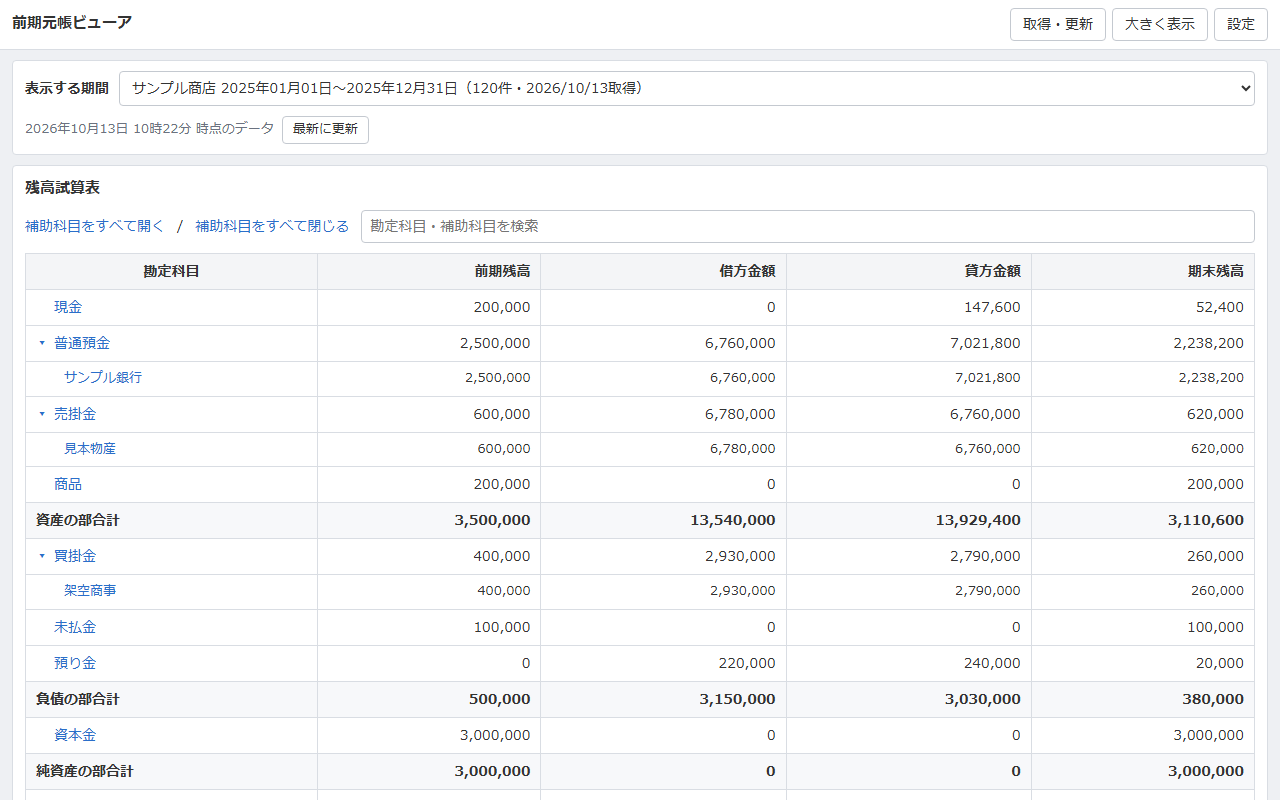
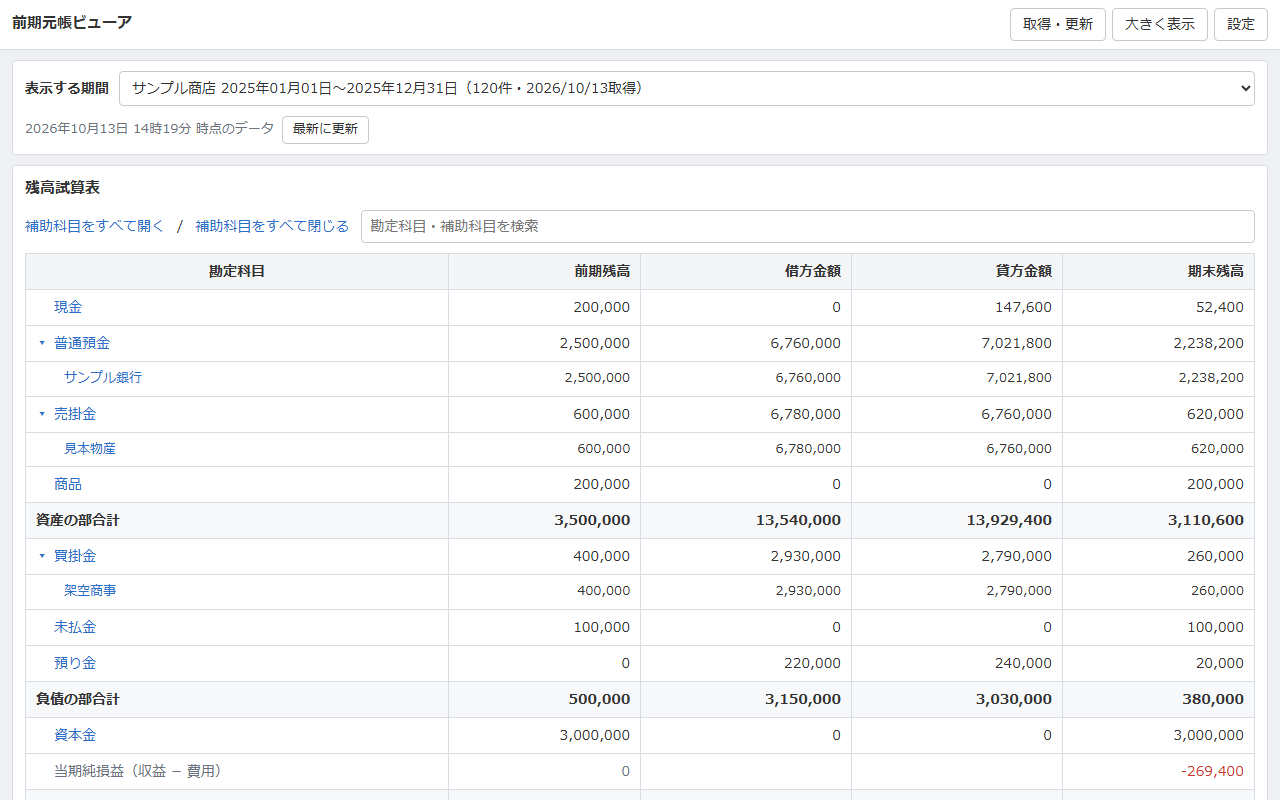
手順書・プライバシーポリシーに、残高試算表CSVの読み込みを追加

diff --git a/index.html b/index.html
@@ -64,7 +64,7 @@
 <li>明細を押して、その仕訳の全行（複合仕訳を含む）を確認する</li>
 <li>税区分・税額・インボイス区分（適格・非適格）・部門・取引先・メモ・タグも、元帳と仕訳の詳細に表示する</li>
 <li>経理方式が税抜（内税）の場合は、消費税を仮払消費税・仮受消費税に振り分けた税抜の金額で表示する</li>
-<li>APIのほか、クラウド会計から書き出した仕訳帳・総勘定元帳のCSVも読み込める</li>
+<li>APIのほか、クラウド会計から書き出した総勘定元帳・残高試算表・仕訳帳のCSVも読み込める</li>
 </ul>
 <h3>しくみ</h3>
 <p>クラウド会計の画面では、選択中の会計期間がログイン状態にひも付いています。そのため、別のタブで前期に切り替えると当期のタブまで前期になります。この拡張機能は会計の画面を使わず、マネーフォワードが公式に提供しているAPI（外部連携の窓口）から前期の仕訳を受け取り、拡張機能の中で元帳を組み立てて表示します。そのため、当期の画面には影響しません。</p>
@@ -165,6 +165,7 @@
 <li><strong>表示は、取得した時点の写しです。</strong>取得したデータはChromeに保存され、次回からは通信せずにすぐ開けます。そのかわり、取得したあとにクラウド会計で追加・修正した仕訳は反映されません。「表示する期間」の下に、いつ時点のデータかが表示されます。決算の作業中など、前期の仕訳を直したあとは「最新に更新」を押してください。</li>
 <li><strong>経理方式が「税抜（内税）」の事業者では、税抜の金額で表示します。</strong>「表示する期間」の下に「税抜で表示」のチェックが出ます（はじめから入っています）。チェックが入っていると、仕訳の金額から消費税額を引き、その税額を仮払消費税・仮受消費税に振り分けて表示します。適格請求書のない仕入（80%控除など）は、控除できる分だけを仮払消費税に入れます。チェックを外すと、仕訳に登録された税込の金額になります。行を押して開く仕訳の詳細は、登録されたとおりの金額（税込）です。総勘定元帳のCSVから読み込んだ場合は、はじめからクラウド会計の元帳と同じ金額です。</li>
 <li><strong>以前の版で取得したデータには、税区分の名称やインボイス区分が入っていません。</strong>「最新に更新」を押すと表示されます。</li>
+<li><strong>純資産の区分に「当期純損益（収益 − 費用）」の行が出ます。</strong>クラウド会計の残高試算表では繰越利益剰余金に含めて表示される金額を、1行に分けて表示しています（すべての科目の区分が分かっているデータで表示されます）。</li>
 <li>クラウド会計の残高試算表の初期設定と同じく、「未実現仕訳」は含まれません。</li>
 </ul>
 
@@ -195,6 +196,12 @@
 <tr><td>区分ごとの合計（資産の部合計など）</td><td>なし</td><td>なし</td></tr>
 <tr><td>「最新に更新」</td><td colspan="2">使えません。取り直すときは、CSVを出力し直して読み込みます</td></tr>
 </table></div>
+<h3>総勘定元帳のCSVに、残高試算表のCSVを重ねる</h3>
+<p>総勘定元帳のCSVを読み込んだあとに、残高試算表のCSV（「貸借対照表」と「損益計算書」。補助科目を表示して出力したもの）も「CSVを選択」から読み込むと、上の表のうち、区分ごとの合計、補助科目の前期残高・期末残高、期中に取引のない科目が表示されるようになります。</p>
+<ul>
+<li>残高試算表のCSVは、重ねたい総勘定元帳のデータが表示されている状態で読み込みます。</li>
+<li>3つのCSV（総勘定元帳・貸借対照表・損益計算書）は、同じ事業者・同じ期間で、続けて同じタイミングで出力してください。金額が合わないファイルは、重ねずにお知らせします。</li>
+</ul>
 <p>動作を試すための架空のデータ（仕訳帳の形式）を用意しています：<a href="sample-journal.csv" download>sample-journal.csv（サンプル）</a></p>
 
 <h2 id="trouble">困ったとき</h2>

diff --git a/privacy-policy.html b/privacy-policy.html
@@ -36,7 +36,7 @@
 <tr><th>情報</th><th>取得元</th><th>目的</th></tr>
 <tr><td>会計データ（仕訳〔取引先名・摘要・メモを含む〕、勘定科目、事業者名・事業者番号、会計期間、消費税の設定〔課税方式・経理方式〕）</td><td>マネーフォワード クラウド会計の公開API</td><td>残高試算表・総勘定元帳・補助元帳を画面に表示するため</td></tr>
 <tr><td>認証情報（クライアントID、クライアントシークレット、アクセストークン、リフレッシュトークン）</td><td>利用者の入力、およびマネーフォワードの認可サーバー</td><td>マネーフォワード クラウド会計のAPIに接続するため</td></tr>
-<tr><td>CSVファイル（仕訳帳・総勘定元帳）の内容</td><td>利用者が選んだファイル</td><td>上と同じく、元帳を画面に表示するため</td></tr>
+<tr><td>CSVファイル（仕訳帳・総勘定元帳・残高試算表）の内容</td><td>利用者が選んだファイル</td><td>上と同じく、元帳を画面に表示するため</td></tr>
 <tr><td>同意の記録（同意した日時）</td><td>本拡張機能の画面での操作</td><td>同意が済んでいるかどうかを覚えておくため</td></tr>
 </table></div>
 <p>会計データの取引先名や摘要には、個人の氏名などが含まれることがあります。</p>
@@ -97,7 +97,7 @@
 <tr><th>Information</th><th>Source</th><th>Purpose</th></tr>
 <tr><td>Accounting data (journal entries, including trade partner names, descriptions and memos; accounts; office name and office number; fiscal periods; consumption tax settings)</td><td>The public API of Money Forward Cloud Accounting</td><td>To display the trial balance, general ledger and subsidiary ledger on the user's screen</td></tr>
 <tr><td>Authentication information (client ID, client secret, access token, refresh token)</td><td>Entered by the user, and issued by Money Forward's authorization server</td><td>To connect to the Money Forward Cloud Accounting API</td></tr>
-<tr><td>Contents of a CSV file (journal or general ledger export)</td><td>A file the user selects</td><td>To display ledgers, as above</td></tr>
+<tr><td>Contents of a CSV file (journal, general ledger or trial balance export)</td><td>A file the user selects</td><td>To display ledgers, as above</td></tr>
 <tr><td>Consent record (date and time of consent)</td><td>The user's action in the Extension</td><td>To remember that consent has been given</td></tr>
 </table></div>
 <p>Trade partner names and descriptions in accounting data may include personal names.</p>
